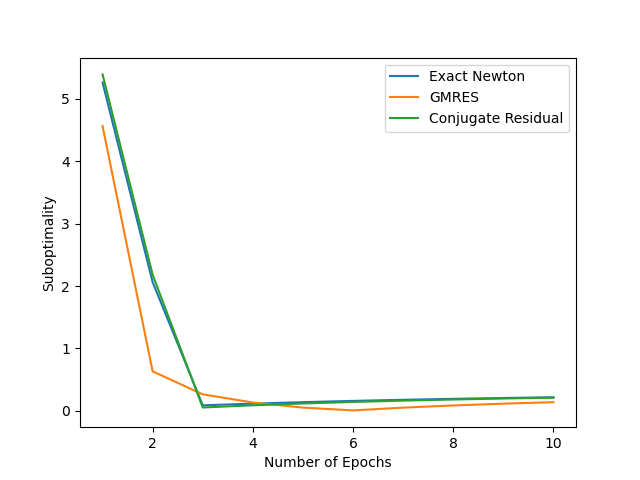
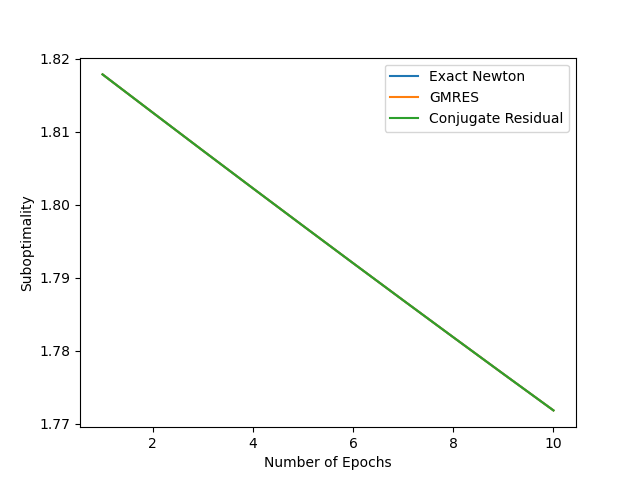
make initial weight vector the same across all newton's method methods

diff --git a/convex_model/a9a_analysis.py b/convex_model/a9a_analysis.py
@@ -14,6 +14,9 @@ import jax
 import jax.numpy as jnp 
 from jax import grad
             
+
+# give same initializations for all methods 
+
 class A9A_Analysis:
 
     def __init__(self, X_train, y_train, X_test, y_test):
@@ -24,6 +27,14 @@ class A9A_Analysis:
         self.regularization = 0.01
 
     def l2_regularized_logistic_regression_loss(self,w):
+        #print(type(w))
+        # if not torch.is_tensor(w):
+        #     #print(type(w))
+        #     #print(type(w))
+        #     #print('printing np array w')
+        #     #w = jax.pure_callback(w)
+        #     w = torch.from_numpy(np.asarray(w))
+
         loss = 0
         n = len(self.y)
         for i in range(n):
@@ -47,6 +58,8 @@ class A9A_Analysis:
         # compute the largest eigenvalue of Hessian at w = 0, hessian = 124 x 124
         # H = 1/n  X^T P X, P = 0.25 I when w = 0
         hessian_w_equals_0 = (1/n) * (self.X @ (0.25 * torch.eye(n)) @ self.X.T) 
+        hessian_w_equals_0 += (self.regularization * torch.eye(len(hessian_w_equals_0)))
+
 
         # assuming all eigenvalues are essentially real
         eigenvalues_hessian_w_equals_0 = torch.view_as_real(torch.linalg.eig(hessian_w_equals_0)[0])
@@ -59,7 +72,7 @@ class A9A_Analysis:
 
         tolerance = 10**(-16)
         while True:
-            gradient = self.compute_gradient()
+            gradient = self.compute_gradient(w)
             w = w - (alpha * gradient)
             curr_loss = self.l2_regularized_logistic_regression_loss(w).item()
 
@@ -86,9 +99,9 @@ class A9A_Analysis:
 
     def backtrack_line_search(self, w, update):
         init_alpha = 1.0
-        rho = 0.3
+        rho = 0.5
         c = 0.001
-        min_alpha = 0.05
+        min_alpha = (10**-4)
 
         alpha = init_alpha
         while True:
@@ -107,8 +120,9 @@ class A9A_Analysis:
             
             alpha = rho * alpha 
 
-    def newton_method_exact(self, num_epochs):
-        w = torch.rand(self.X.shape[0])
+    def newton_method_exact(self, num_epochs, init_w):
+        #w = torch.rand(self.X.shape[0])
+        w = init_w
         loss_values = {}
         accuracy_values = {}
 
@@ -148,8 +162,9 @@ class A9A_Analysis:
             (-self.y_test * self.X_test)).mean(1) + (self.regularization * w)
 
 
-    def conjugate_residual(self, num_epochs):
-        w = torch.rand(self.X.shape[0])
+    def conjugate_residual(self, num_epochs, init_w):
+        #w = torch.rand(self.X.shape[0])
+        w = init_w
         loss_values = {}
         accuracy_values = {}
 
@@ -172,9 +187,22 @@ class A9A_Analysis:
 
         return w, loss_values, accuracy_values, end-start
 
+    
+    def hessian_vector_product(self, w, u):
+        # takes computes product of Hessian (evaluated at w) * v
+        
+        # convert PyTorch Tensors to Jax arrays
+        w = jnp.asarray(w.numpy())
+        print(type(w))
+        u = jnp.asarray(u.numpy())
+        result = grad(lambda w: jnp.vdot(grad(self.l2_regularized_logistic_regression_loss)(w), u))(u)
+        print(type(w))
+        return result
 
-    def gmres(self, num_epochs):
-        w = torch.rand(self.X.shape[0]) 
+
+    def gmres(self, num_epochs, init_w):
+        #w = torch.rand(self.X.shape[0]) 
+        w = init_w
         loss_values = {}
         accuracy_values = {}
 
@@ -244,6 +272,8 @@ class A9A_Analysis:
         newton_methods = {'Exact Newton': self.newton_method_exact, 'GMRES': 
         self.gmres, 'Conjugate Residual': self.conjugate_residual}
 
+        #newton_methods = {'Exact Newton': self.newton_method_exact}
+
         f = open('model_statistics/wall_clock_times.txt', 'w')
         f.write(f'{num_epochs} \n')
         wall_clock_times = {}
@@ -251,16 +281,13 @@ class A9A_Analysis:
             _, _, _, wall_clock_time = newton_method(num_epochs)
             wall_clock_times[newton_method_name] = wall_clock_time
 
-        
-        # f = open('model_statistics/wall_clock_times.txt')
-        # f.write(f'{num_epochs} \n')
         for newton_method_name, wall_clock_time in wall_clock_times.items():
             f.write(f'{newton_method_name}, {str(wall_clock_time)} \n')
             
         return wall_clock_times
 
 
-    def plot_suboptimality_all_newton_methods(self, filename, num_epochs):
+    def plot_suboptimality_all_newton_methods(self, filename, num_epochs, init_w):
         # difference between Gradient Descent approximately converged loss and Newton's Method Loss over iterations 
         gradient_descent_loss = torch.load('model_statistics/gradient_descent_loss.pt')
         final_converged_loss = gradient_descent_loss[-1]
@@ -269,14 +296,15 @@ class A9A_Analysis:
         self.gmres, 'Conjugate Residual': self.conjugate_residual}
 
         for newton_method_name, newton_method in newton_methods.items():
-            _, loss_vals, _, _ = newton_method(num_epochs)
+            _, loss_vals, _, _ = newton_method(num_epochs, init_w)
             epochs = [i for i in range(1, num_epochs + 1)]
             loss_differences = [abs(final_converged_loss - loss_val) for _, loss_val in loss_vals.items()]
-            plt.plot(epochs, loss_differences, label=newton_method_name)
-        plt.legend()
-        plt.xlabel('Number of Epochs')
-        plt.ylabel('Suboptimality')
-        plt.savefig(f'convex_model_plots/{filename}')
+            plt.plot(np.array(epochs), np.log(np.array(loss_differences)), label=newton_method_name)
+            
+            plt.legend()
+            plt.xlabel('Number of Epochs')
+            plt.ylabel('Suboptimality')
+            plt.savefig(f'convex_model_plots/{newton_method_name}_{filename}')
         
         #_, newton_method_loss_vals = newton_method(15)
          
@@ -290,23 +318,32 @@ class A9A_Analysis:
         # 'Number of Epochs', 'Suboptimality', filename)
 
 
-
-
 if __name__ == "__main__":
     a9a_dataset_train, labels_train = helpers.read_a9a_dataset('../data/a9a_train.txt')
     a9a_dataset_test, labels_test = helpers.read_a9a_dataset('../data/a9a_test.txt')
 
 
     a9a = A9A_Analysis(a9a_dataset_train, labels_train, a9a_dataset_test, labels_test)
-    wall_clock_times = a9a.measure_wall_clock_time_all_newton_methods(10)
-    print(wall_clock_times)
+    init_w = torch.rand(a9a.X.shape[0])
+    
+
+    # _, gradient_descent_loss_values = a9a.gradient_descent()
+    # print(gradient_descent_loss_values[-1])
+    # torch.save(torch.tensor(gradient_descent_loss_values), 'model_statistics/gradient_descent_loss.pt')
+
+    # w = torch.randn(124)
+    # v = torch.randn(124)
+
+    # print(a9a.hessian_vector_product(w, v))
+    #wall_clock_times = a9a.measure_wall_clock_time_all_newton_methods(10)
+    #print(wall_clock_times)
 
     #print(torch.autograd.functional.hessian(a9a.l2_regularized_logistic_regression_loss, torch.ones(124)))
     
     
     #a9a.plot_losses_or_accuracies_all_newton_methods('loss_vals.png', 10, True)
     #a9a.plot_losses_or_accuracies_all_newton_methods('accuracy_vals.png', 10, False)
-    #a9a.plot_suboptimality_all_newton_methods('suboptimality.png', 10)
+    a9a.plot_suboptimality_all_newton_methods('suboptimality.png', 10, init_w)
 
     #_ = a9a.conjugate_residual(10)
     # print(time)

diff --git a/convex_model/experimentation.py b/convex_model/experimentation.py
@@ -37,6 +37,18 @@ def conjugate_gradient_hessian_vp(self, gradient, w):
 
     return x_i
 
+def hessian_vector_product(self, w, u):
+    # takes computes product of Hessian * v
+
+    # convert tensors to Jax arrays
+    #w = jnp.asarray(w.numpy())
+    #u = jnp.asarray(u.numpy())
+    print(type(w))
+    loss_fn_returning_jax_tensor = lambda w: jnp.asarray(self.l2_regularized_logistic_regression_loss(w).numpy())
+    w = jnp.asarray(w.numpy())
+    result = grad(lambda w: jnp.vdot(grad(loss_fn_returning_jax_tensor)(w), u))(w)
+    return torch.from_numpy(np.array(result))
+
 
 def conjugate_gradient_hessian_vp(A, gradient):
     """
